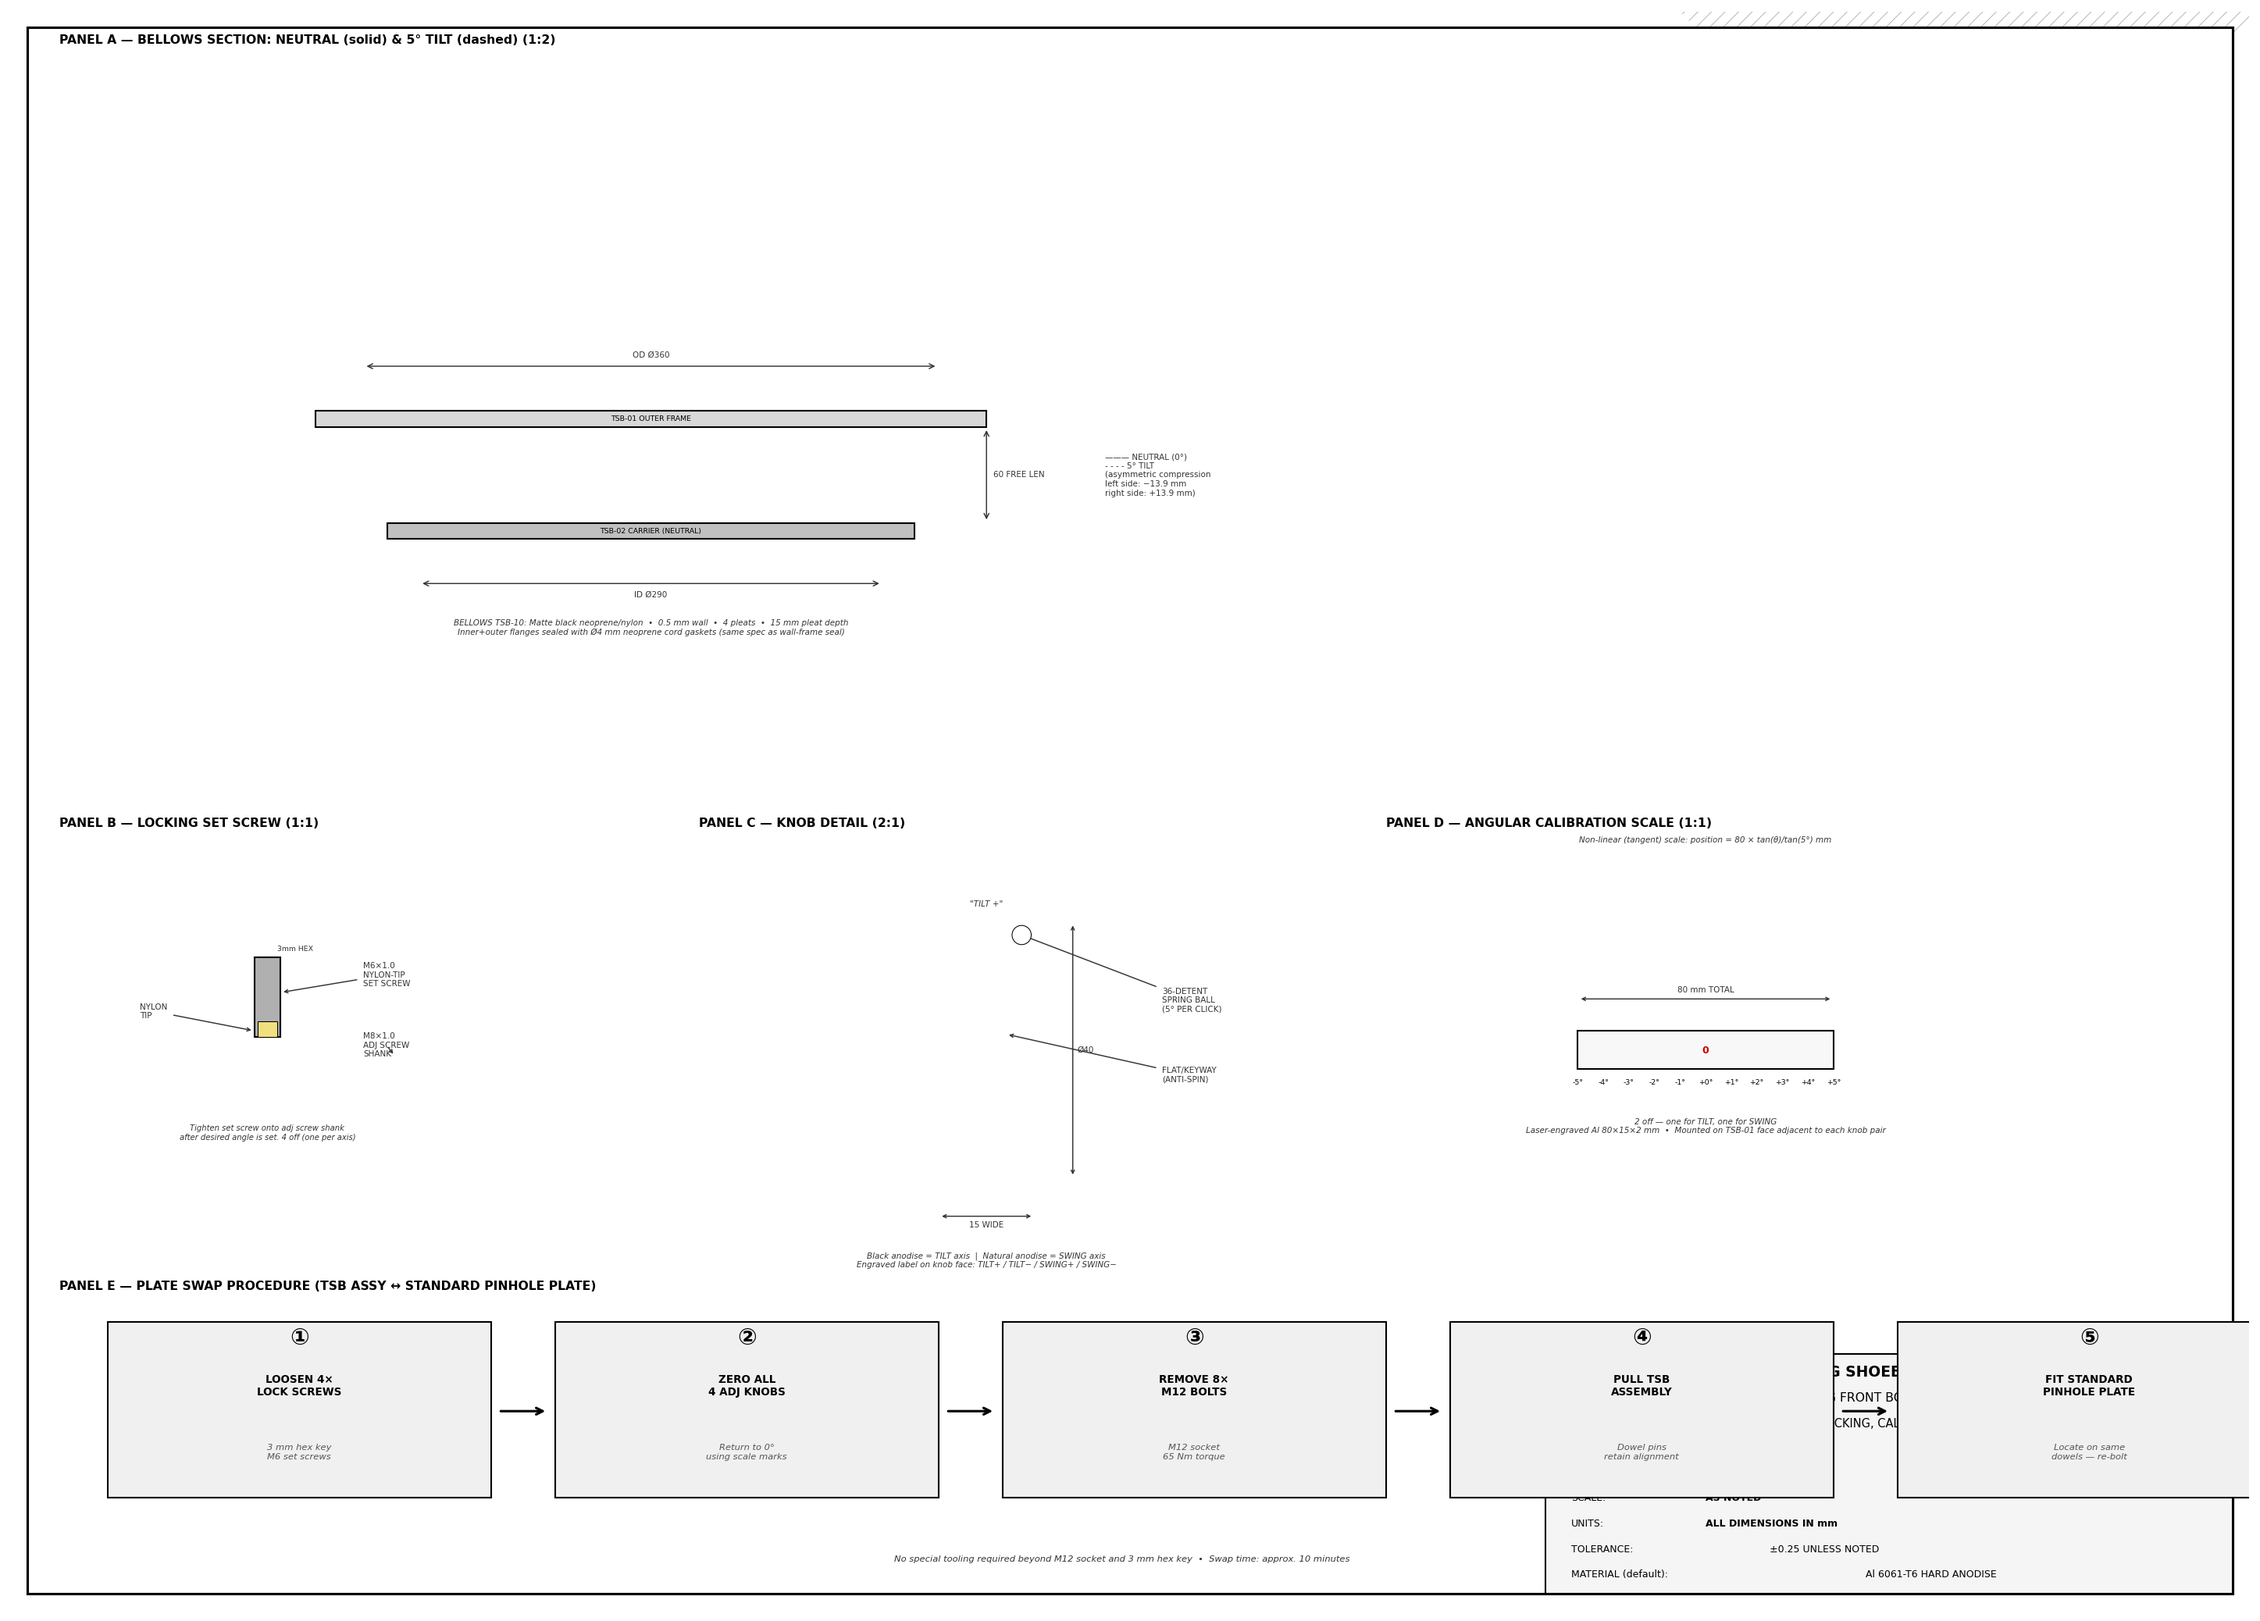
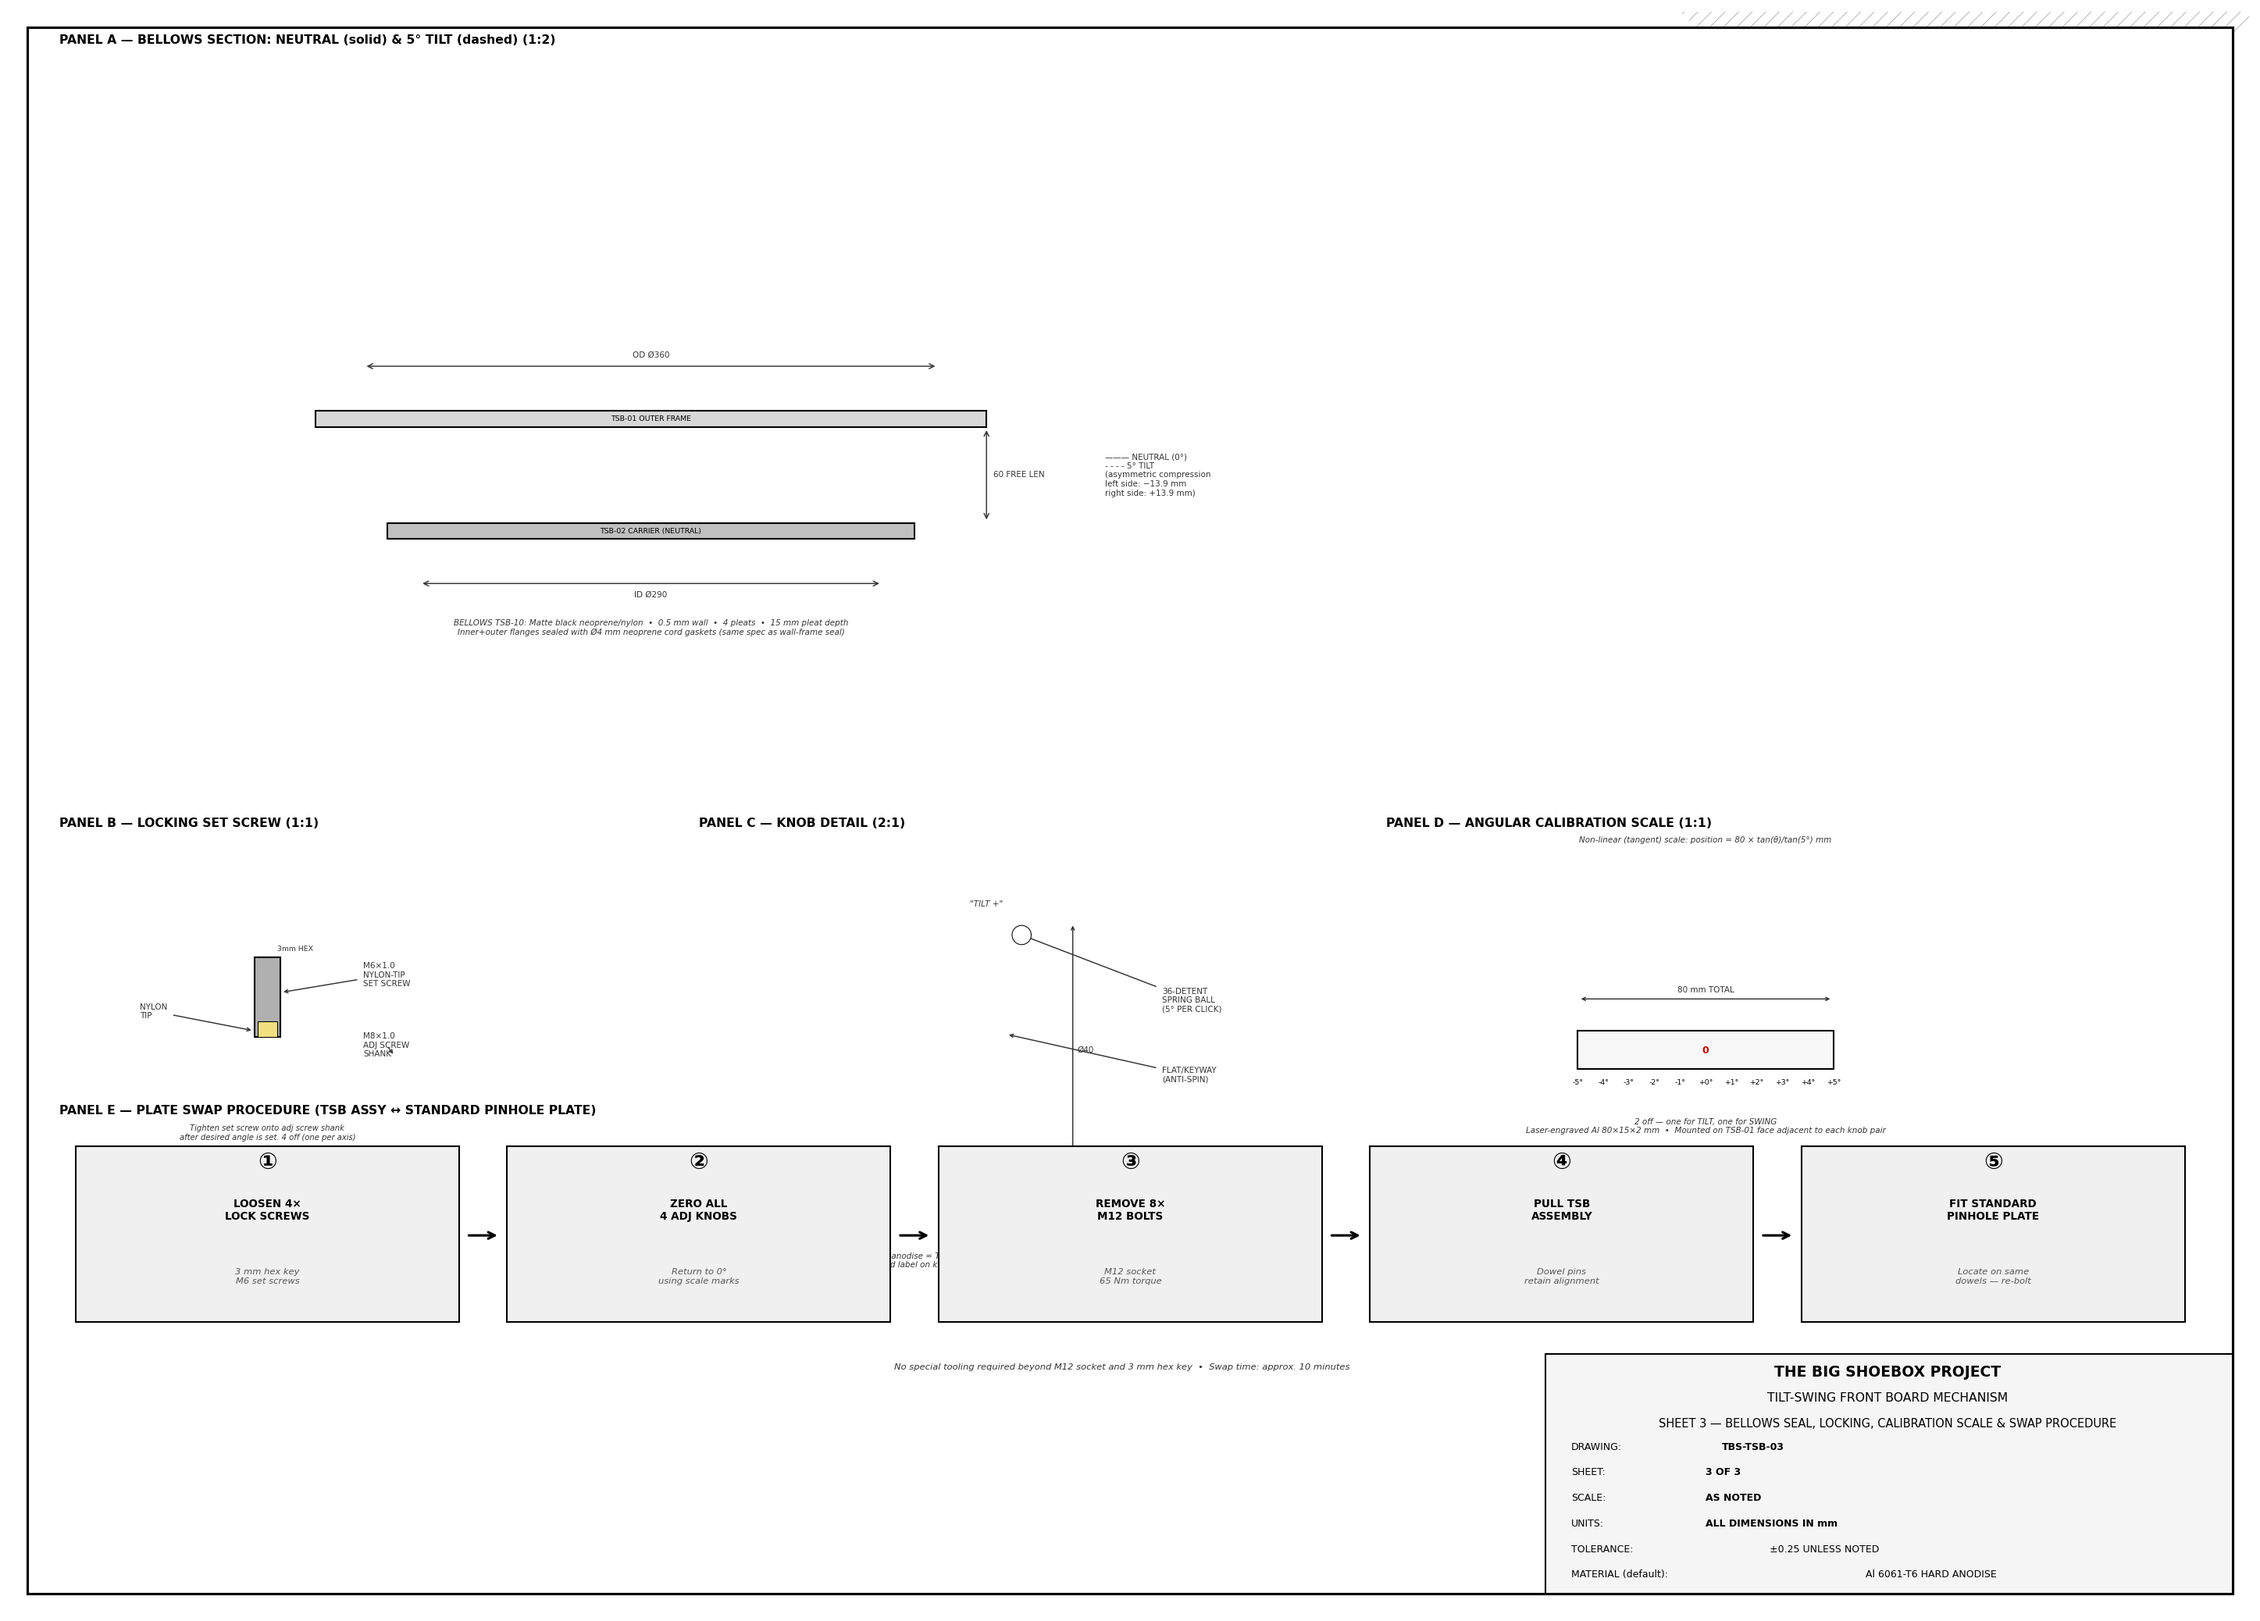
Fix Panel E overlap with title block on tilt-swing-board sheet 3
Step boxes were at Y=35–90, title block at Y=5–80 — vertical overlap.
Step 5 also extended to X=710, overflowing FW=700 into the title block.

Fix: raise sy from 35→90 (steps now at Y=90–145, clear of title block),
tighten step gap from 20→15 and start offset from 30→20 so all 5 steps
fit within X=680. Raised Panel E label and separator to match.

diff --git a/generate_tilt_swing_board.py b/generate_tilt_swing_board.py
@@ -1182,8 +1182,8 @@ ax3.text(cx3d, cy3d - scale_strip_h/2 - 20,
          ha='center', fontsize=5, style='italic', color='#333333')
 
 # ── PANEL E: Swap sequence ────────────────────────────────────────────────────
-ax3.text(15, 100, 'PANEL E — PLATE SWAP PROCEDURE (TSB ASSY ↔ STANDARD PINHOLE PLATE)', fontsize=7.5, fontweight='bold')
-ax3.plot([15, 695], [97, 97], color='black', lw=0.7)
+ax3.text(15, 155, 'PANEL E — PLATE SWAP PROCEDURE (TSB ASSY ↔ STANDARD PINHOLE PLATE)', fontsize=7.5, fontweight='bold')
+ax3.plot([15, 695], [152, 152], color='black', lw=0.7)
 
 steps = [
     ('①', 'LOOSEN 4×\nLOCK SCREWS', '3 mm hex key\nM6 set screws'),
@@ -1194,9 +1194,10 @@ steps = [
 ]
 
 step_w = 120
+step_gap = 15
 for i, (num, title, note) in enumerate(steps):
-    sx = 30 + i * (step_w + 20)
-    sy = 35
+    sx = 20 + i * (step_w + step_gap)
+    sy = 90
     draw_rect(ax3, sx, sy, step_w, 55, lw=1.0, color='black', fc='#F0F0F0')
     ax3.text(sx + step_w/2, sy + 48, num, ha='center', fontsize=14,
              fontweight='bold', color='black')
@@ -1205,10 +1206,10 @@ for i, (num, title, note) in enumerate(steps):
     ax3.text(sx + step_w/2, sy + 12, note, ha='center', fontsize=5.5,
              color='#555555', style='italic')
     if i < 4:
-        ax3.annotate('', xy=(sx + step_w + 18, sy + 27), xytext=(sx + step_w + 2, sy + 27),
+        ax3.annotate('', xy=(sx + step_w + 13, sy + 27), xytext=(sx + step_w + 2, sy + 27),
                      arrowprops=dict(arrowstyle='->', color='black', lw=1.5))
 
-ax3.text(695/2, 15, 'No special tooling required beyond M12 socket and 3 mm hex key  •  Swap time: approx. 10 minutes',
+ax3.text(695/2, 75, 'No special tooling required beyond M12 socket and 3 mm hex key  •  Swap time: approx. 10 minutes',
          ha='center', fontsize=5.5, color='#333333', style='italic')
 
 out3 = 'diagrams/tilt-swing-board-sheet3.png'
